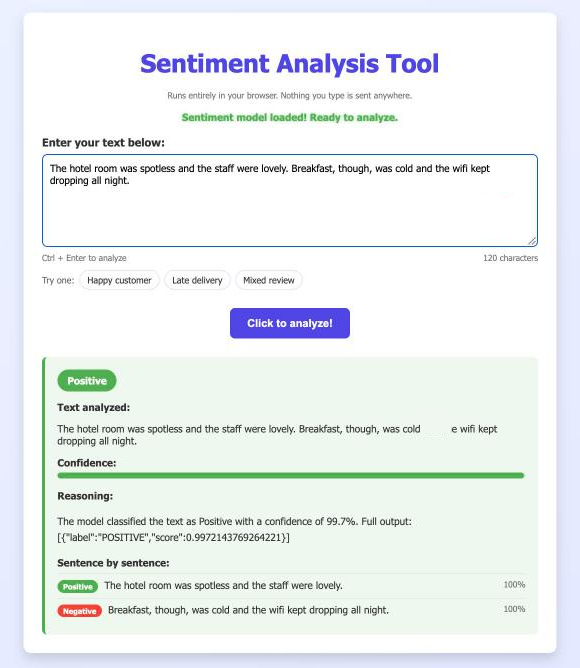
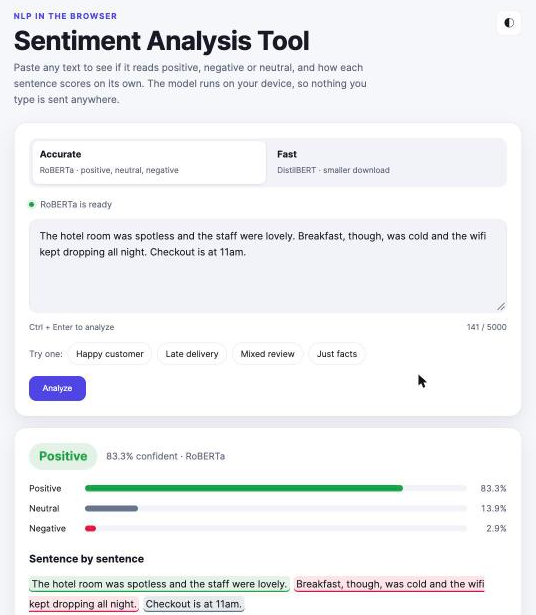
README: model benchmark and new screenshots

diff --git a/README.md b/README.md
@@ -5,38 +5,56 @@
 </p>
 
 <p align="center">
-  <a href="https://amatya27.github.io/sentiment-analysis-tool/"><img src="media/screenshot.png" width="460" alt="Sentiment Analysis Tool showing a mixed review scored overall and sentence by sentence"></a>
+  <a href="https://amatya27.github.io/sentiment-analysis-tool/">
+    <picture>
+      <source media="(prefers-color-scheme: dark)" srcset="media/screenshot-dark.png">
+      <img src="media/screenshot.png" width="520" alt="Sentiment Analysis Tool scoring a mixed hotel review overall and sentence by sentence">
+    </picture>
+  </a>
 </p>
 
 Paste any text and it tells you whether it reads positive, negative or neutral, how confident it is and, for longer text, how each sentence scores on its own. I built it while exploring how text analysis could help with hiring workflows, like reading candidate feedback or interview notes.
 
-## How it works
+## Two models, and how I picked the default
 
-- **Model:** DistilBERT fine-tuned on SST-2 (`Xenova/distilbert-base-uncased-finetuned-sst-2-english`), run with [Transformers.js](https://github.com/xenova/transformers.js). The model downloads once and is cached by the browser, so everything after that runs on your own device. Nothing you type leaves the page.
-- **Neutral:** SST-2 only knows positive and negative. If the model's top score is below 65%, I call it neutral instead of forcing a side.
-- **Sentence by sentence:** one label for a whole paragraph can hide mixed feelings (a spotless room, but cold breakfast and bad wifi). For text with more than one sentence, it splits it with `Intl.Segmenter` and scores each sentence separately.
+The tool runs Hugging Face models in the browser with [Transformers.js](https://github.com/xenova/transformers.js), so after the first download everything happens on your own device.
+
+My first version used DistilBERT fine-tuned on SST-2. It's small and fast, but it was trained only on positive vs negative movie reviews, so it has no idea what "neutral" is. It called "The meeting has been moved to Thursday at 3pm" **negative with 99.5% confidence**.
+
+So I benchmarked it against a RoBERTa model trained with a real neutral class (`cardiffnlp/twitter-roberta-base-sentiment-latest`), using 200 random labeled examples from each of three public datasets:
+
+| Test data | RoBERTa (default) | DistilBERT |
+|---|---|---|
+| Tweets: positive / neutral / negative | **78.5%** | 46.5% |
+| Product reviews: positive / neutral / negative | **71.5%** | 64.5% |
+| Movie review sentences: positive / negative only | 79.5% | **85.0%** |
+
+RoBERTa wins wherever "neutral" is a real option, which is most everyday text, so it's now the default ("Accurate"). DistilBERT stays as the "Fast" option. It's a smaller download and still the better pick for clearly opinionated text. I also tried blending the two models and different confidence cut-offs for DistilBERT's neutral; none beat just picking the right model for the job.
+
+You can re-run the benchmark in your own browser at [`/eval`](https://amatya27.github.io/sentiment-analysis-tool/eval/). It pulls the data live from the Hugging Face datasets API with a fixed seed.
 
 ## Features
 
-- Overall label, confidence bar and the raw model output
-- Per-sentence breakdown for longer text
-- Example texts to try in one click
-- `Ctrl + Enter` to analyze
-- Dark mode, remembered between visits
+- Overall label with a bar for each class
+- Sentence-by-sentence highlights, so mixed reviews show which parts are positive or negative
+- Switch between the Accurate and Fast models; each downloads once, with a progress bar
+- Example texts to try in one click, `Ctrl + Enter` to analyze
+- Light and dark theme (follows your system by default)
 
 ## Running it locally
 
-It's a single `index.html`. Because it loads the model as an ES module, open it through a local server instead of double-clicking the file:
+It's a single `index.html`. Because it loads the models as ES modules, open it through a local server instead of double-clicking the file:
 
 ```bash
 python -m http.server 8000
 # then open http://localhost:8000
 ```
 
-## Changes in 2026
+## Changelog
 
-- Removed a broken comment above `<!DOCTYPE html>` that pushed browsers into quirks mode.
-- Removed a duplicate import of the library.
-- Updated Transformers.js from 2.0.1 to 2.17.2.
-- Added the sentence-by-sentence breakdown, confidence bar, example texts and keyboard shortcut.
-- Replaced the pop-up alert with an inline message.
+**2026**
+- New design with light and dark themes.
+- RoBERTa 3-class model as the default, after benchmarking it against DistilBERT.
+- Sentence highlights, a download progress bar, per-class bars and a benchmark page.
+- Fixed a broken comment above `<!DOCTYPE html>` that pushed browsers into quirks mode.
+- Removed a duplicate import of the library and updated Transformers.js from 2.0.1 to 2.17.2.
